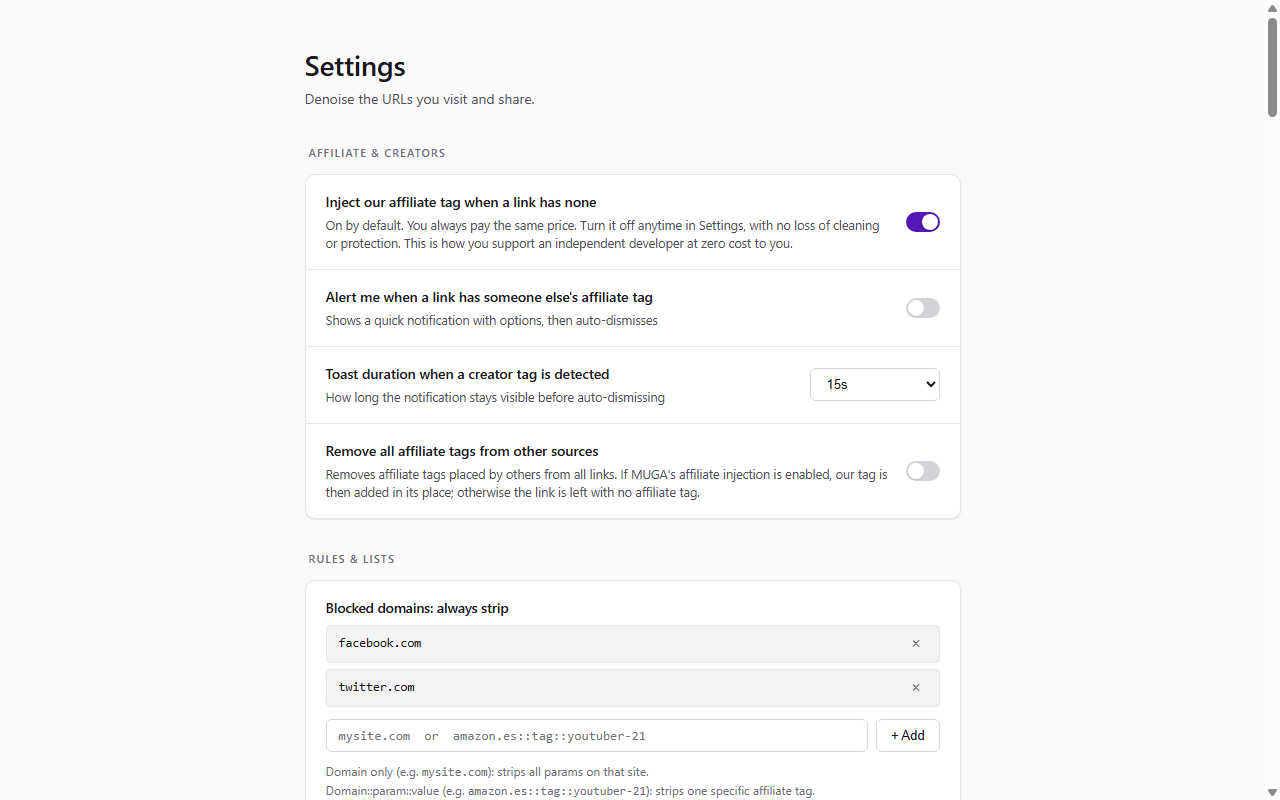
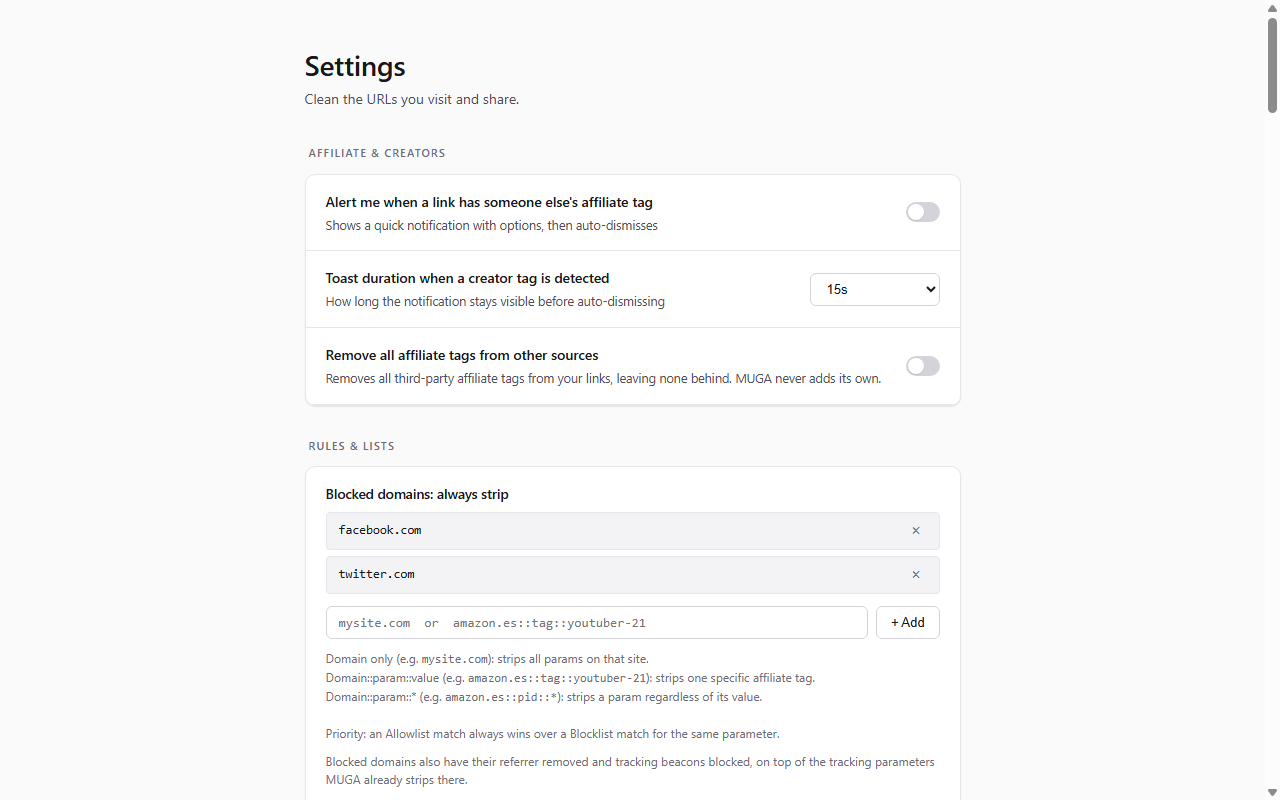
fix(ui): retire the denoise identity from the extension's own screens
3.0 retired the denoise framing from the README, the docs pages and the
landing page, but stopped at the product. A user installing "MUGA: URL
Cleaner. Remove tracking" was greeted by "The web, with the noise turned
down." and "Denoise every URL", which is the exact colophon that release
removed everywhere else. Installed from the store, it reads as a
different product than the one on the listing.

Five identity strings across all seven locales: the onboarding tagline
and its subtitle, the first feature heading, the Settings subtitle and
the pre-navigation cleaning label.

The matching fallback text in onboarding.html and options.html moves
too. Those strings render on first paint, before applyTranslations()
runs, so changing only the locale files would have left the retired copy
visible every time either page opens.

Descriptive "noise" prose stays: the shipped listing itself says "Clean
the tracking noise from your URLs", so that register is current copy
rather than retired identity. "How MUGA quiets your URLs" stays as well,
since the backronym has always been Make URLs Quiet Again.

diff --git a/src/options/options.html b/src/options/options.html
@@ -9,7 +9,7 @@
 <body>
 <main>
   <h1 data-i18n="opts_title">Settings</h1>
-  <p class="subtitle" data-i18n="opts_subtitle">Denoise the URLs you visit and share.</p>
+  <p class="subtitle" data-i18n="opts_subtitle">Clean the URLs you visit and share.</p>
 
   <!-- One-time blocklist Referer/beacon migration disclosure (referer-beacon-privacy
        PR 4, D2/D6): shown exactly once for existing users with a non-empty
@@ -201,7 +201,7 @@
       <!-- Advanced: URL cleaning (kept under Advanced per locked decision) --><div class="card card-dev">
         <div class="row">
           <div class="row-label">
-            <strong data-i18n="row_dnr_label">Denoise links before navigation</strong>
+            <strong data-i18n="row_dnr_label">Clean links before navigation</strong>
             <small data-i18n="row_dnr_hint">Cleans URLs as you type in the address bar, from bookmarks, and links from other apps. Before the page loads.</small>
           </div>
           <label class="toggle"><input type="checkbox" id="dnr-enabled" data-i18n-aria-label="aria_dnr_enabled"><span class="slider"></span></label>

diff --git a/src/onboarding/onboarding.html b/src/onboarding/onboarding.html
@@ -19,8 +19,8 @@
       <span>MUGA</span>
     </div>
     <p class="tagline">
-      <span data-i18n="ob_tagline">The web, with the noise turned down.</span><br>
-      <span data-i18n="ob_tagline_sub">Denoise every URL · honour creator referrals · zero telemetry.</span>
+      <span data-i18n="ob_tagline">Your links, with the tracking taken out.</span><br>
+      <span data-i18n="ob_tagline_sub">Clean every URL · keep creator referrals · zero telemetry.</span>
     </p>
 
     <!-- What MUGA does -->
@@ -35,7 +35,7 @@
             </svg>
           </div>
           <div class="feature-text">
-            <strong data-i18n="ob_feat1_title">Removes 450+ noise patterns from every URL</strong>
+            <strong data-i18n="ob_feat1_title">Removes 450+ tracking patterns from every URL</strong>
             <small data-i18n="ob_feat1_desc">fbclid, gclid, UTMs, and hundreds more, gone before the page loads. The cleaning runs locally in your browser, with no analytics and no telemetry.</small>
           </div>
         </div>
